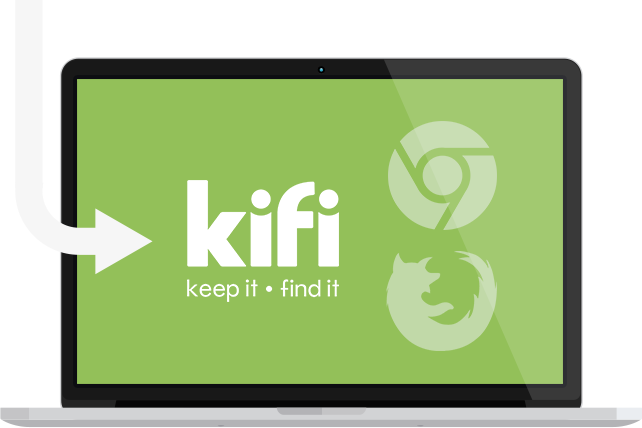
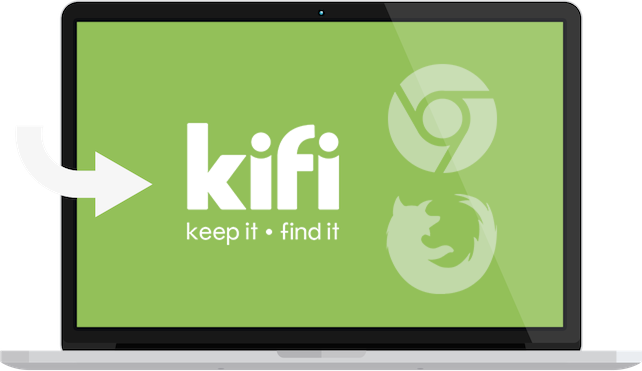
going tablet

Changed region(s): [[0.0, 0.0, 0.9969, 1.0], [0.2804, 0.3261, 0.5296, 0.7116]]

diff --git a/kifi-backend/modules/shoebox/public/css/landing-mobile.css b/kifi-backend/modules/shoebox/public/css/landing-mobile.css
@@ -1,1 +1,1 @@
-.clear{display:block;clear:both}body{position:relative;font-size:24px;margin:0 auto;font-weight:300;font-family:'Open Sans',sans-serif;-webkit-font-smoothing:antialiased;text-rendering:optimizeLegibility}@media screen and (min-width:768px){body{font-size:30px}}.fancybox-wrap{margin-top:-3%;-webkit-transition:all .3s ease;-moz-transition:all .3s ease;-o-transition:all .3s ease;-ms-transition:all .3s ease;transition:all .3s ease}.wistia-fancybox #fancybox-overlay{-webkit-animation:fadeIn .5s ease;-moz-animation:fadeIn .5s ease;animation:fadeIn .5s ease}.wistia-fancybox .fancybox-close.fancybox-close{-webkit-box-shadow:none;-moz-box-shadow:none;box-shadow:none}.wistia-fancybox .fancybox-outer.fancybox-outer{background:#000}@-webkit-keyframes fadeIn{0%{opacity:0}100%{opacity:.8}}@-moz-keyframes fadeIn{0%{opacity:0}100%{opacity:.8}}@keyframes fadeIn{0%{opacity:0}100%{opacity:.8}}::-webkit-input-placeholder{color:#c4c4c4;font-weight:300}:-moz-placeholder{color:#c4c4c4;font-weight:300}::-moz-placeholder{color:#c4c4c4;font-weight:300}:-ms-input-placeholder{color:#c4c4c4;font-weight:300}body{padding-top:60px}.kifi-header{position:fixed;top:0;left:0;width:100%;font-size:0;padding:13.5px 29px;background-color:#fff;z-index:10}html.scroll .kifi-header{-webkit-box-shadow:0 0 3px 0 rgba(0,0,0,.15);-moz-box-shadow:0 0 3px 0 rgba(0,0,0,.15);box-shadow:0 0 3px 0 rgba(0,0,0,.15)}.clear{clear:both}.kifi-header-logo{display:inline-block;font-size:0;width:58px;height:33px;margin-right:8px;color:transparent;vertical-align:bottom;background-image:url(/assets/img/mobile/kifilogo.png);background-size:100%;background-repeat:no-repeat;background-position:0 0}@media (-webkit-min-device-pixel-ratio:1.5),(min--moz-device-pixel-ratio:1.5),(-o-min-device-pixel-ratio:3/2),(min-resolution:1.5dppx){.kifi-header-logo{background-image:url(/assets/img/mobile/kifilogo@2x.png);background-size:100% 100%}}.kifi-header-text{position:relative;font-size:16px;top:5px;color:#424242;vertical-align:bottom}.kifi-footer{background:#424242;color:#fff;text-align:center}.kifi-footer-menu{list-style:none;font-size:12px;font-weight:600;letter-spacing:.75px;padding:19.5px;margin:0;text-transform:uppercase}.kifi-footer-menu li{display:inline}.kifi-footer-menu a{color:#fff;text-decoration:none}.kifi-footer-menu a:hover{text-decoration:underline}.kifi-footer-menu-dot{padding:0 4px}.kifi-arrow-down{position:absolute;display:block;bottom:-9px;width:25px;height:13px;z-index:1;background-repeat:no-repeat;background-position:0 0;background-size:100%}.kifi-arrow-cover{position:absolute;top:0;left:0;width:100%;height:4px}@media screen and (min-width:768px){.kifi-arrow-down{left:50%!important;margin-left:-12.5px;bottom:-13px}.kifi-arrow-cover{display:none}}.kifi-coming-soon{position:relative;background:#424242;color:#fff;text-align:center;padding-top:.8333333333333334em;padding-bottom:1.4583333333333333em}.kifi-coming-soon h1{font-size:20px;font-weight:400;line-height:1.2;margin:0}.kifi-coming-soon .kifi-arrow-down{left:1.5em;background-image:url(/assets/img/mobile/blackcaret.png);background-size:100%}@media (-webkit-min-device-pixel-ratio:1.5),(min--moz-device-pixel-ratio:1.5),(-o-min-device-pixel-ratio:3/2),(min-resolution:1.5dppx){.kifi-coming-soon .kifi-arrow-down{background-image:url(/assets/img/mobile/blackcaret@2x.png);background-size:100% 100%}}.kifi-coming-soon .kifi-arrow-cover{background:#424242}@media screen and (min-width:768px){.kifi-coming-soon{padding-top:66px;padding-bottom:61px}.kifi-coming-soon h1{font-size:30px}}.kifi-countdown-numbers{position:relative;font-size:3.125em;margin-top:.13333333333333333em;font-weight:300;line-height:1}.kifi-time{color:#4b4b4b}.kifi-date{position:absolute;top:0;width:100%;color:#c4c4c4}.kifi-date-left{position:relative;font-size:.5833333333333334em;top:-.35714285714285715em;letter-spacing:-.03571428571428571em;font-weight:400;color:#c4c4c4}.kifi-not-ready{padding-bottom:8px}html.iphone .kifi-not-ready{display:none}@media screen and (min-width:768px){.kifi-not-ready h1{margin-left:-234px}.kifi-coming-soon .kifi-add-form,.kifi-coming-soon .kifi-added{margin-left:-234px}html.iphone .kifi-coming-soon .kifi-add-form,html.iphone .kifi-coming-soon .kifi-added{margin-left:0}.kifi-coming-soon .kifi-added{margin-top:11px}}.kifi-lab-img{width:74px;height:74px;margin:0 auto;margin-top:24px;background-image:url(/assets/img/mobile/beakeriphone.png);background-size:100%;background-repeat:no-repeat;background-position:0 0}@media (-webkit-min-device-pixel-ratio:1.5),(min--moz-device-pixel-ratio:1.5),(-o-min-device-pixel-ratio:3/2),(min-resolution:1.5dppx){.kifi-lab-img{background-image:url(/assets/img/mobile/beakeriphone@2x.png);background-size:100% 100%}}@media screen and (min-width:768px){.kifi-lab-img{position:absolute;left:50%;top:50%;width:164px;height:164px;margin-left:95px;margin-top:-78px;background-image:url(/assets/img/mobile/beakeripad.png)}}@media screen and (min-width:768px) and (-webkit-min-device-pixel-ratio:1.5),(min--moz-device-pixel-ratio:1.5),(-o-min-device-pixel-ratio:3/2),(min-resolution:1.5dppx){.kifi-lab-img{background-image:url(/assets/img/mobile/beakeripad@2x.png);background-size:100% 100%}}.kifi-waiting-text{font-size:15px;font-weight:600;color:#fff;margin-top:.8em}.kifi-waiting-input-box{position:relative;padding-left:1.1666666666666667em;padding-right:1.1666666666666667em;margin:0 auto;max-width:264px}.kifi-waiting-email,.kifi-desktop-email{display:block;font-size:15px;font-weight:400;width:100%;padding-top:.8em;padding-bottom:.8em;padding-left:1em;padding-right:1em;border:2px solid transparent;-webkit-border-radius:2px;-webkit-background-clip:padding-box;-moz-border-radius:2px;-moz-background-clip:padding;border-radius:2px;background-clip:padding-box;margin:0;margin-top:.7333333333333333em;text-align:left;letter-spacing:.043333333333333335em;-webkit-box-sizing:border-box;-moz-box-sizing:border-box;box-sizing:border-box}.kifi-waiting-email{-webkit-border-radius:4px;-webkit-background-clip:padding-box;-moz-border-radius:4px;-moz-background-clip:padding;border-radius:4px;background-clip:padding-box}.kifi-desktop-email{margin-top:1.0666666666666667em;border-color:#85b34b}html.submitted .kifi-add-form,html.submitted .kifi-add-form-2{display:none}.kifi-added,.kifi-added-2{display:none;margin:0 auto;text-align:right}html.submitted .kifi-added,html.submitted .kifi-added-2{display:inline-block}.kifi-added{margin-top:13px;font-size:13px}.kifi-added h1{font-size:28px;line-height:1;color:#93c059}.kifi-added .kifi-added-email{font-weight:400;line-height:normal;margin-top:5px;color:#c4c4c4}.kifi-added .kifi-change-email{display:inline-block;font-weight:400;line-height:normal;margin-top:6px;color:#93c059;text-decoration:none}.kifi-added .kifi-change-email:hover{text-decoration:underline}.kifi-good-news{position:relative;padding:22px 28px 24px;color:#fff;background-color:#93c059}.kifi-good-news h2{font-size:18px;font-weight:600;text-transform:uppercase;margin:0}.kifi-good-news p{font-size:17px;margin:0}.kifi-good-news .what-is-kifi{font-size:17px;margin-top:31px;font-weight:400}.kifi-good-news .kifi-arrow-down{left:1.1666666666666667em;background-image:url(/assets/img/mobile/greencaret.png);background-size:100%}@media (-webkit-min-device-pixel-ratio:1.5),(min--moz-device-pixel-ratio:1.5),(-o-min-device-pixel-ratio:3/2),(min-resolution:1.5dppx){.kifi-good-news .kifi-arrow-down{background-image:url(/assets/img/mobile/greencaret@2x.png);background-size:100% 100%}}.kifi-good-news .kifi-arrow-cover{background:#93c059}@media screen and (min-width:768px){.kifi-good-news{text-align:center;padding-bottom:21px}.kifi-good-news h2{font-size:28px;font-weight:600;margin-top:25px}.kifi-good-news p{font-size:23px;margin-top:-6px}}.kifi-watch-video{color:#424242;background-color:#f6f6f6;text-align:center;padding-top:36px;padding-lr:20px;padding-bottom:94px}.kifi-watch-video h2{font-size:1em;font-weight:300;line-height:1.22;margin:0}@media screen and (min-width:768px){.kifi-watch-video{padding-top:52px;padding-bottom:63px;background-image:url(/assets/img/mobile/header2.png);background-size:auto 77.5%;background-repeat:no-repeat;background-position:bottom right 83px}}@media screen and (min-width:768px) and (-webkit-min-device-pixel-ratio:1.5),(min--moz-device-pixel-ratio:1.5),(-o-min-device-pixel-ratio:3/2),(min-resolution:1.5dppx){.kifi-watch-video{background-image:url(/assets/img/mobile/header2@2x.png);background-size:auto 77.5%}}.kifi-play{position:relative;display:inline-block;width:95px;height:95px;margin:0 auto;margin-top:28px;background-image:url(/assets/img/mobile/playbuttoniphone.png);background-size:100%;background-repeat:no-repeat;background-position:0 0}@media (-webkit-min-device-pixel-ratio:1.5),(min--moz-device-pixel-ratio:1.5),(-o-min-device-pixel-ratio:3/2),(min-resolution:1.5dppx){.kifi-play{background-image:url(/assets/img/mobile/playbuttoniphone@2x.png);background-size:100% 100%}}@media screen and (min-width:768px){.kifi-play{width:130px;height:130px;margin-top:17px;background-image:url(/assets/img/mobile/playbuttonipad.png);background-size:100%;background-repeat:no-repeat}}@media screen and (min-width:768px) and (-webkit-min-device-pixel-ratio:1.5),(min--moz-device-pixel-ratio:1.5),(-o-min-device-pixel-ratio:3/2),(min-resolution:1.5dppx){.kifi-play{background-image:url(/assets/img/mobile/playbuttonipad@2x.png);background-size:100% 100%}}.kifi-desktop{position:relative;padding-bottom:1.7083333333333333em;color:#fff;background-color:#93c059;text-align:center}.kifi-desktop-img{position:relative;display:inline-block;margin:0 auto;margin-top:-.9583333333333334em;width:258px;height:152px;background-image:url(/assets/img/mobile/flatmacbookiphone.png);background-size:100%;background-repeat:no-repeat;background-position:0 0}@media (-webkit-min-device-pixel-ratio:1.5),(min--moz-device-pixel-ratio:1.5),(-o-min-device-pixel-ratio:3/2),(min-resolution:1.5dppx){.kifi-desktop-img{background-image:url(/assets/img/mobile/flatmacbookiphone@2x.png);background-size:100% 100%}}@media screen and (min-width:768px){.kifi-desktop-img{width:321px;height:214px;margin-left:-235px;margin-top:-100px;background-image:url(/assets/img/mobile/flatmacbookipad.png)}}@media screen and (min-width:768px) and (-webkit-min-device-pixel-ratio:1.5),(min--moz-device-pixel-ratio:1.5),(-o-min-device-pixel-ratio:3/2),(min-resolution:1.5dppx){.kifi-desktop-img{background-image:url(/assets/img/mobile/flatmacbookipad@2x.png);background-size:100% 100%}}.kifi-desktop-text{font-size:.7083333333333334em;font-weight:400;line-height:1.45;margin-top:.5294117647058824em}.kifi-desktop-button{font-size:16px;font-weight:200;letter-spacing:1px;margin-top:1.25em;padding-top:.75em;padding-bottom:.75em;padding-left:1.625em;padding-right:1.625em;border:1px solid #4f8ad9;-webkit-border-radius:2px;-webkit-background-clip:padding-box;-moz-border-radius:2px;-moz-background-clip:padding;border-radius:2px;background-clip:padding-box;color:#fff;background-color:#6fa6ef}.kifi-desktop-button:hover{background-color:#76aaf0}.kifi-desktop-button:active{background-color:#699ee3}.kifi-added-2{font-size:13px;margin-top:17px;margin-bottom:20px}.kifi-added-2 h1{font-size:28px;font-weight:300;margin:0}.kifi-added-2 .kifi-added-email{margin-top:10px;color:#fff}.kifi-added-2 .kifi-change-email{display:inline-block;margin-top:13px;color:#fff;text-decoration:none}.kifi-added-2 .kifi-change-email:hover{text-decoration:underline}.hidden{display:none}.iphone-only{display:none}html.iphone .iphone-only{display:block}@media screen and (max-width:767px){.tablet-only{display:none!important}}@media screen and (min-width:768px){.phone-only{display:none!important}}
+.clear{display:block;clear:both}body{position:relative;font-size:24px;margin:0 auto;font-weight:300;font-family:'Open Sans',sans-serif;-webkit-font-smoothing:antialiased;text-rendering:optimizeLegibility}@media screen and (min-width:768px){body{font-size:30px}}.fancybox-wrap{margin-top:-3%;-webkit-transition:all .3s ease;-moz-transition:all .3s ease;-o-transition:all .3s ease;-ms-transition:all .3s ease;transition:all .3s ease}.wistia-fancybox #fancybox-overlay{-webkit-animation:fadeIn .5s ease;-moz-animation:fadeIn .5s ease;animation:fadeIn .5s ease}.wistia-fancybox .fancybox-close.fancybox-close{-webkit-box-shadow:none;-moz-box-shadow:none;box-shadow:none}.wistia-fancybox .fancybox-outer.fancybox-outer{background:#000}@-webkit-keyframes fadeIn{0%{opacity:0}100%{opacity:.8}}@-moz-keyframes fadeIn{0%{opacity:0}100%{opacity:.8}}@keyframes fadeIn{0%{opacity:0}100%{opacity:.8}}::-webkit-input-placeholder{color:#c4c4c4;font-weight:300}:-moz-placeholder{color:#c4c4c4;font-weight:300}::-moz-placeholder{color:#c4c4c4;font-weight:300}:-ms-input-placeholder{color:#c4c4c4;font-weight:300}body{padding-top:60px}.kifi-header{position:fixed;top:0;left:0;width:100%;font-size:0;padding:13.5px 29px;background-color:#fff;z-index:10}html.scroll .kifi-header{-webkit-box-shadow:0 0 3px 0 rgba(0,0,0,.15);-moz-box-shadow:0 0 3px 0 rgba(0,0,0,.15);box-shadow:0 0 3px 0 rgba(0,0,0,.15)}.clear{clear:both}.kifi-header-logo{display:inline-block;font-size:0;width:58px;height:33px;margin-right:8px;color:transparent;vertical-align:bottom;background-image:url(/assets/img/mobile/kifilogo.png);background-size:100%;background-repeat:no-repeat;background-position:0 0}@media (-webkit-min-device-pixel-ratio:1.5),(min--moz-device-pixel-ratio:1.5),(-o-min-device-pixel-ratio:3/2),(min-resolution:1.5dppx){.kifi-header-logo{background-image:url(/assets/img/mobile/kifilogo@2x.png);background-size:100% 100%}}.kifi-header-text{position:relative;font-size:16px;top:5px;color:#424242;vertical-align:bottom}.kifi-footer{background:#424242;color:#fff;text-align:center}.kifi-footer-menu{list-style:none;font-size:12px;font-weight:600;letter-spacing:.75px;padding:19.5px;margin:0;text-transform:uppercase}.kifi-footer-menu li{display:inline}.kifi-footer-menu a{color:#fff;text-decoration:none}.kifi-footer-menu a:hover{text-decoration:underline}.kifi-footer-menu-dot{padding:0 4px}.kifi-arrow-down{position:absolute;display:block;bottom:-9px;width:25px;height:13px;z-index:1;background-repeat:no-repeat;background-position:0 0;background-size:100%}.kifi-arrow-cover{position:absolute;top:0;left:0;width:100%;height:4px}@media screen and (min-width:768px){.kifi-arrow-down{left:50%!important;margin-left:-12.5px;bottom:-13px}.kifi-arrow-cover{display:none}}.kifi-coming-soon{position:relative;background:#424242;color:#fff;text-align:center;padding-top:.8333333333333334em;padding-bottom:1.4583333333333333em}.kifi-coming-soon h1{font-size:20px;font-weight:400;line-height:1.2;margin:0}.kifi-coming-soon .kifi-arrow-down{left:1.5em;background-image:url(/assets/img/mobile/blackcaret.png);background-size:100%}@media (-webkit-min-device-pixel-ratio:1.5),(min--moz-device-pixel-ratio:1.5),(-o-min-device-pixel-ratio:3/2),(min-resolution:1.5dppx){.kifi-coming-soon .kifi-arrow-down{background-image:url(/assets/img/mobile/blackcaret@2x.png);background-size:100% 100%}}.kifi-coming-soon .kifi-arrow-cover{background:#424242}@media screen and (min-width:768px){.kifi-coming-soon{padding-top:66px;padding-bottom:61px}.kifi-coming-soon h1{font-size:30px}}.kifi-countdown-numbers{position:relative;font-size:3.125em;margin-top:.13333333333333333em;font-weight:300;line-height:1}.kifi-time{color:#4b4b4b}.kifi-date{position:absolute;top:0;width:100%;color:#c4c4c4}.kifi-date-left{position:relative;font-size:.5833333333333334em;top:-.35714285714285715em;letter-spacing:-.03571428571428571em;font-weight:400;color:#c4c4c4}.kifi-not-ready{padding-bottom:8px}html.iphone .kifi-not-ready{display:none}@media screen and (min-width:768px){.kifi-not-ready h1{margin-left:-234px}.kifi-coming-soon .kifi-add-form,.kifi-coming-soon .kifi-added{margin-left:-234px}html.iphone .kifi-coming-soon .kifi-add-form,html.iphone .kifi-coming-soon .kifi-added{margin-left:0}.kifi-coming-soon .kifi-added{margin-top:11px}}.kifi-lab-img{width:74px;height:74px;margin:0 auto;margin-top:24px;background-image:url(/assets/img/mobile/beakeriphone.png);background-size:100%;background-repeat:no-repeat;background-position:0 0}@media (-webkit-min-device-pixel-ratio:1.5),(min--moz-device-pixel-ratio:1.5),(-o-min-device-pixel-ratio:3/2),(min-resolution:1.5dppx){.kifi-lab-img{background-image:url(/assets/img/mobile/beakeriphone@2x.png);background-size:100% 100%}}@media screen and (min-width:768px){.kifi-lab-img{position:absolute;left:50%;top:50%;width:164px;height:164px;margin-left:95px;margin-top:-78px;background-image:url(/assets/img/mobile/beakeripad.png)}}@media screen and (min-width:768px) and (-webkit-min-device-pixel-ratio:1.5),(min--moz-device-pixel-ratio:1.5),(-o-min-device-pixel-ratio:3/2),(min-resolution:1.5dppx){.kifi-lab-img{background-image:url(/assets/img/mobile/beakeripad@2x.png);background-size:100% 100%}}.kifi-waiting-text{font-size:15px;font-weight:600;color:#fff;margin-top:.8em}.kifi-waiting-input-box{position:relative;padding-left:1.1666666666666667em;padding-right:1.1666666666666667em;margin:0 auto;max-width:264px}.kifi-waiting-email,.kifi-desktop-email{display:block;font-size:15px;font-weight:400;width:100%;padding-top:.8em;padding-bottom:.8em;padding-left:1em;padding-right:1em;border:2px solid transparent;-webkit-border-radius:2px;-webkit-background-clip:padding-box;-moz-border-radius:2px;-moz-background-clip:padding;border-radius:2px;background-clip:padding-box;margin:0;margin-top:.7333333333333333em;text-align:left;letter-spacing:.043333333333333335em;-webkit-box-sizing:border-box;-moz-box-sizing:border-box;box-sizing:border-box}.kifi-waiting-email{-webkit-border-radius:4px;-webkit-background-clip:padding-box;-moz-border-radius:4px;-moz-background-clip:padding;border-radius:4px;background-clip:padding-box}.kifi-desktop-email{margin-top:1.0666666666666667em;border-color:#85b34b}html.submitted .kifi-add-form,html.submitted .kifi-add-form-2{display:none}.kifi-added,.kifi-added-2{display:none;margin:0 auto;text-align:right}html.submitted .kifi-added,html.submitted .kifi-added-2{display:inline-block}.kifi-added{margin-top:13px;font-size:13px}.kifi-added h1{font-size:28px;line-height:1;color:#93c059}.kifi-added .kifi-added-email{font-weight:400;line-height:normal;margin-top:5px;color:#c4c4c4}.kifi-added .kifi-change-email{display:inline-block;font-weight:400;line-height:normal;margin-top:6px;color:#93c059;text-decoration:none}.kifi-added .kifi-change-email:hover{text-decoration:underline}.kifi-good-news{position:relative;padding:22px 28px 24px;color:#fff;background-color:#93c059}.kifi-good-news h2{font-size:18px;font-weight:600;text-transform:uppercase;margin:0}.kifi-good-news p{font-size:17px;margin:0}.kifi-good-news .what-is-kifi{font-size:17px;margin-top:31px;font-weight:400}.kifi-good-news .kifi-arrow-down{left:1.1666666666666667em;background-image:url(/assets/img/mobile/greencaret.png);background-size:100%}@media (-webkit-min-device-pixel-ratio:1.5),(min--moz-device-pixel-ratio:1.5),(-o-min-device-pixel-ratio:3/2),(min-resolution:1.5dppx){.kifi-good-news .kifi-arrow-down{background-image:url(/assets/img/mobile/greencaret@2x.png);background-size:100% 100%}}.kifi-good-news .kifi-arrow-cover{background:#93c059}@media screen and (min-width:768px){.kifi-good-news{text-align:center;padding-bottom:21px}.kifi-good-news h2{font-size:28px;font-weight:600;margin-top:25px}.kifi-good-news p{font-size:23px;margin-top:-6px}}.kifi-watch-video{color:#424242;background-color:#f6f6f6;text-align:center;padding-top:36px;padding-lr:20px;padding-bottom:94px}.kifi-watch-video h2{font-size:1em;font-weight:300;line-height:1.22;margin:0}@media screen and (min-width:768px){.kifi-watch-video{padding-top:52px;padding-bottom:63px;background-image:url(/assets/img/mobile/header2.png);background-size:auto 77.5%;background-repeat:no-repeat;background-position:bottom right 83px}}@media screen and (min-width:768px) and (-webkit-min-device-pixel-ratio:1.5),(min--moz-device-pixel-ratio:1.5),(-o-min-device-pixel-ratio:3/2),(min-resolution:1.5dppx){.kifi-watch-video{background-image:url(/assets/img/mobile/header2@2x.png);background-size:auto 77.5%}}.kifi-play{position:relative;display:inline-block;width:95px;height:95px;margin:0 auto;margin-top:28px;background-image:url(/assets/img/mobile/playbuttoniphone.png);background-size:100%;background-repeat:no-repeat;background-position:0 0}@media (-webkit-min-device-pixel-ratio:1.5),(min--moz-device-pixel-ratio:1.5),(-o-min-device-pixel-ratio:3/2),(min-resolution:1.5dppx){.kifi-play{background-image:url(/assets/img/mobile/playbuttoniphone@2x.png);background-size:100% 100%}}@media screen and (min-width:768px){.kifi-play{width:130px;height:130px;margin-top:17px;background-image:url(/assets/img/mobile/playbuttonipad.png);background-size:100%;background-repeat:no-repeat}}@media screen and (min-width:768px) and (-webkit-min-device-pixel-ratio:1.5),(min--moz-device-pixel-ratio:1.5),(-o-min-device-pixel-ratio:3/2),(min-resolution:1.5dppx){.kifi-play{background-image:url(/assets/img/mobile/playbuttonipad@2x.png);background-size:100% 100%}}.kifi-desktop{position:relative;padding-bottom:1.7083333333333333em;color:#fff;background-color:#93c059;text-align:center}.kifi-desktop-img{position:relative;display:inline-block;margin:0 auto;margin-top:-.9583333333333334em;width:258px;height:152px;background-image:url(/assets/img/mobile/flatmacbookiphone.png);background-size:100%;background-repeat:no-repeat;background-position:0 0}@media (-webkit-min-device-pixel-ratio:1.5),(min--moz-device-pixel-ratio:1.5),(-o-min-device-pixel-ratio:3/2),(min-resolution:1.5dppx){.kifi-desktop-img{background-image:url(/assets/img/mobile/flatmacbookiphone@2x.png);background-size:100% 100%}}@media screen and (min-width:768px){.kifi-desktop-img{width:321px;height:186px;margin-left:-381px;margin-top:-71px;background-image:url(/assets/img/mobile/flatmacbookipad.png)}}@media screen and (min-width:768px) and (-webkit-min-device-pixel-ratio:1.5),(min--moz-device-pixel-ratio:1.5),(-o-min-device-pixel-ratio:3/2),(min-resolution:1.5dppx){.kifi-desktop-img{background-image:url(/assets/img/mobile/flatmacbookipad@2x.png);background-size:100% 100%}}.kifi-desktop-text{font-size:.7083333333333334em;font-weight:400;line-height:1.45;margin-top:.5294117647058824em}.kifi-desktop-button{font-size:16px;font-weight:200;letter-spacing:1px;margin-top:1.25em;padding-top:.75em;padding-bottom:.75em;padding-left:1.625em;padding-right:1.625em;border:1px solid #4f8ad9;-webkit-border-radius:2px;-webkit-background-clip:padding-box;-moz-border-radius:2px;-moz-background-clip:padding;border-radius:2px;background-clip:padding-box;color:#fff;background-color:#6fa6ef}.kifi-desktop-button:hover{background-color:#76aaf0}.kifi-desktop-button:active{background-color:#699ee3}.kifi-added-2{font-size:13px;margin-top:17px;margin-bottom:20px}.kifi-added-2 h1{font-size:28px;font-weight:300;margin:0}.kifi-added-2 .kifi-added-email{margin-top:10px;color:#fff}.kifi-added-2 .kifi-change-email{display:inline-block;margin-top:13px;color:#fff;text-decoration:none}.kifi-added-2 .kifi-change-email:hover{text-decoration:underline}.hidden{display:none}.iphone-only{display:none}html.iphone .iphone-only{display:block}@media screen and (max-width:767px){.tablet-only{display:none!important}}@media screen and (min-width:768px){.phone-only{display:none!important}}

diff --git a/kifi-backend/modules/shoebox/public/css/landing-mobile.less b/kifi-backend/modules/shoebox/public/css/landing-mobile.less
@@ -492,11 +492,11 @@ body {
 @media screen and (min-width: 768px) {
 .kifi-desktop-img {
 	@w: 321px;
-	@h: 214px;
+	@h: 186px;
 	width: @w;
 	height: @h;
-	margin-left: -235px;
-	margin-top: -100px;
+	margin-left: -381px;
+	margin-top: -71px;
 	.at2x('/assets/img/mobile/flatmacbookipad.png', 100%, 100%);
 }
 }
